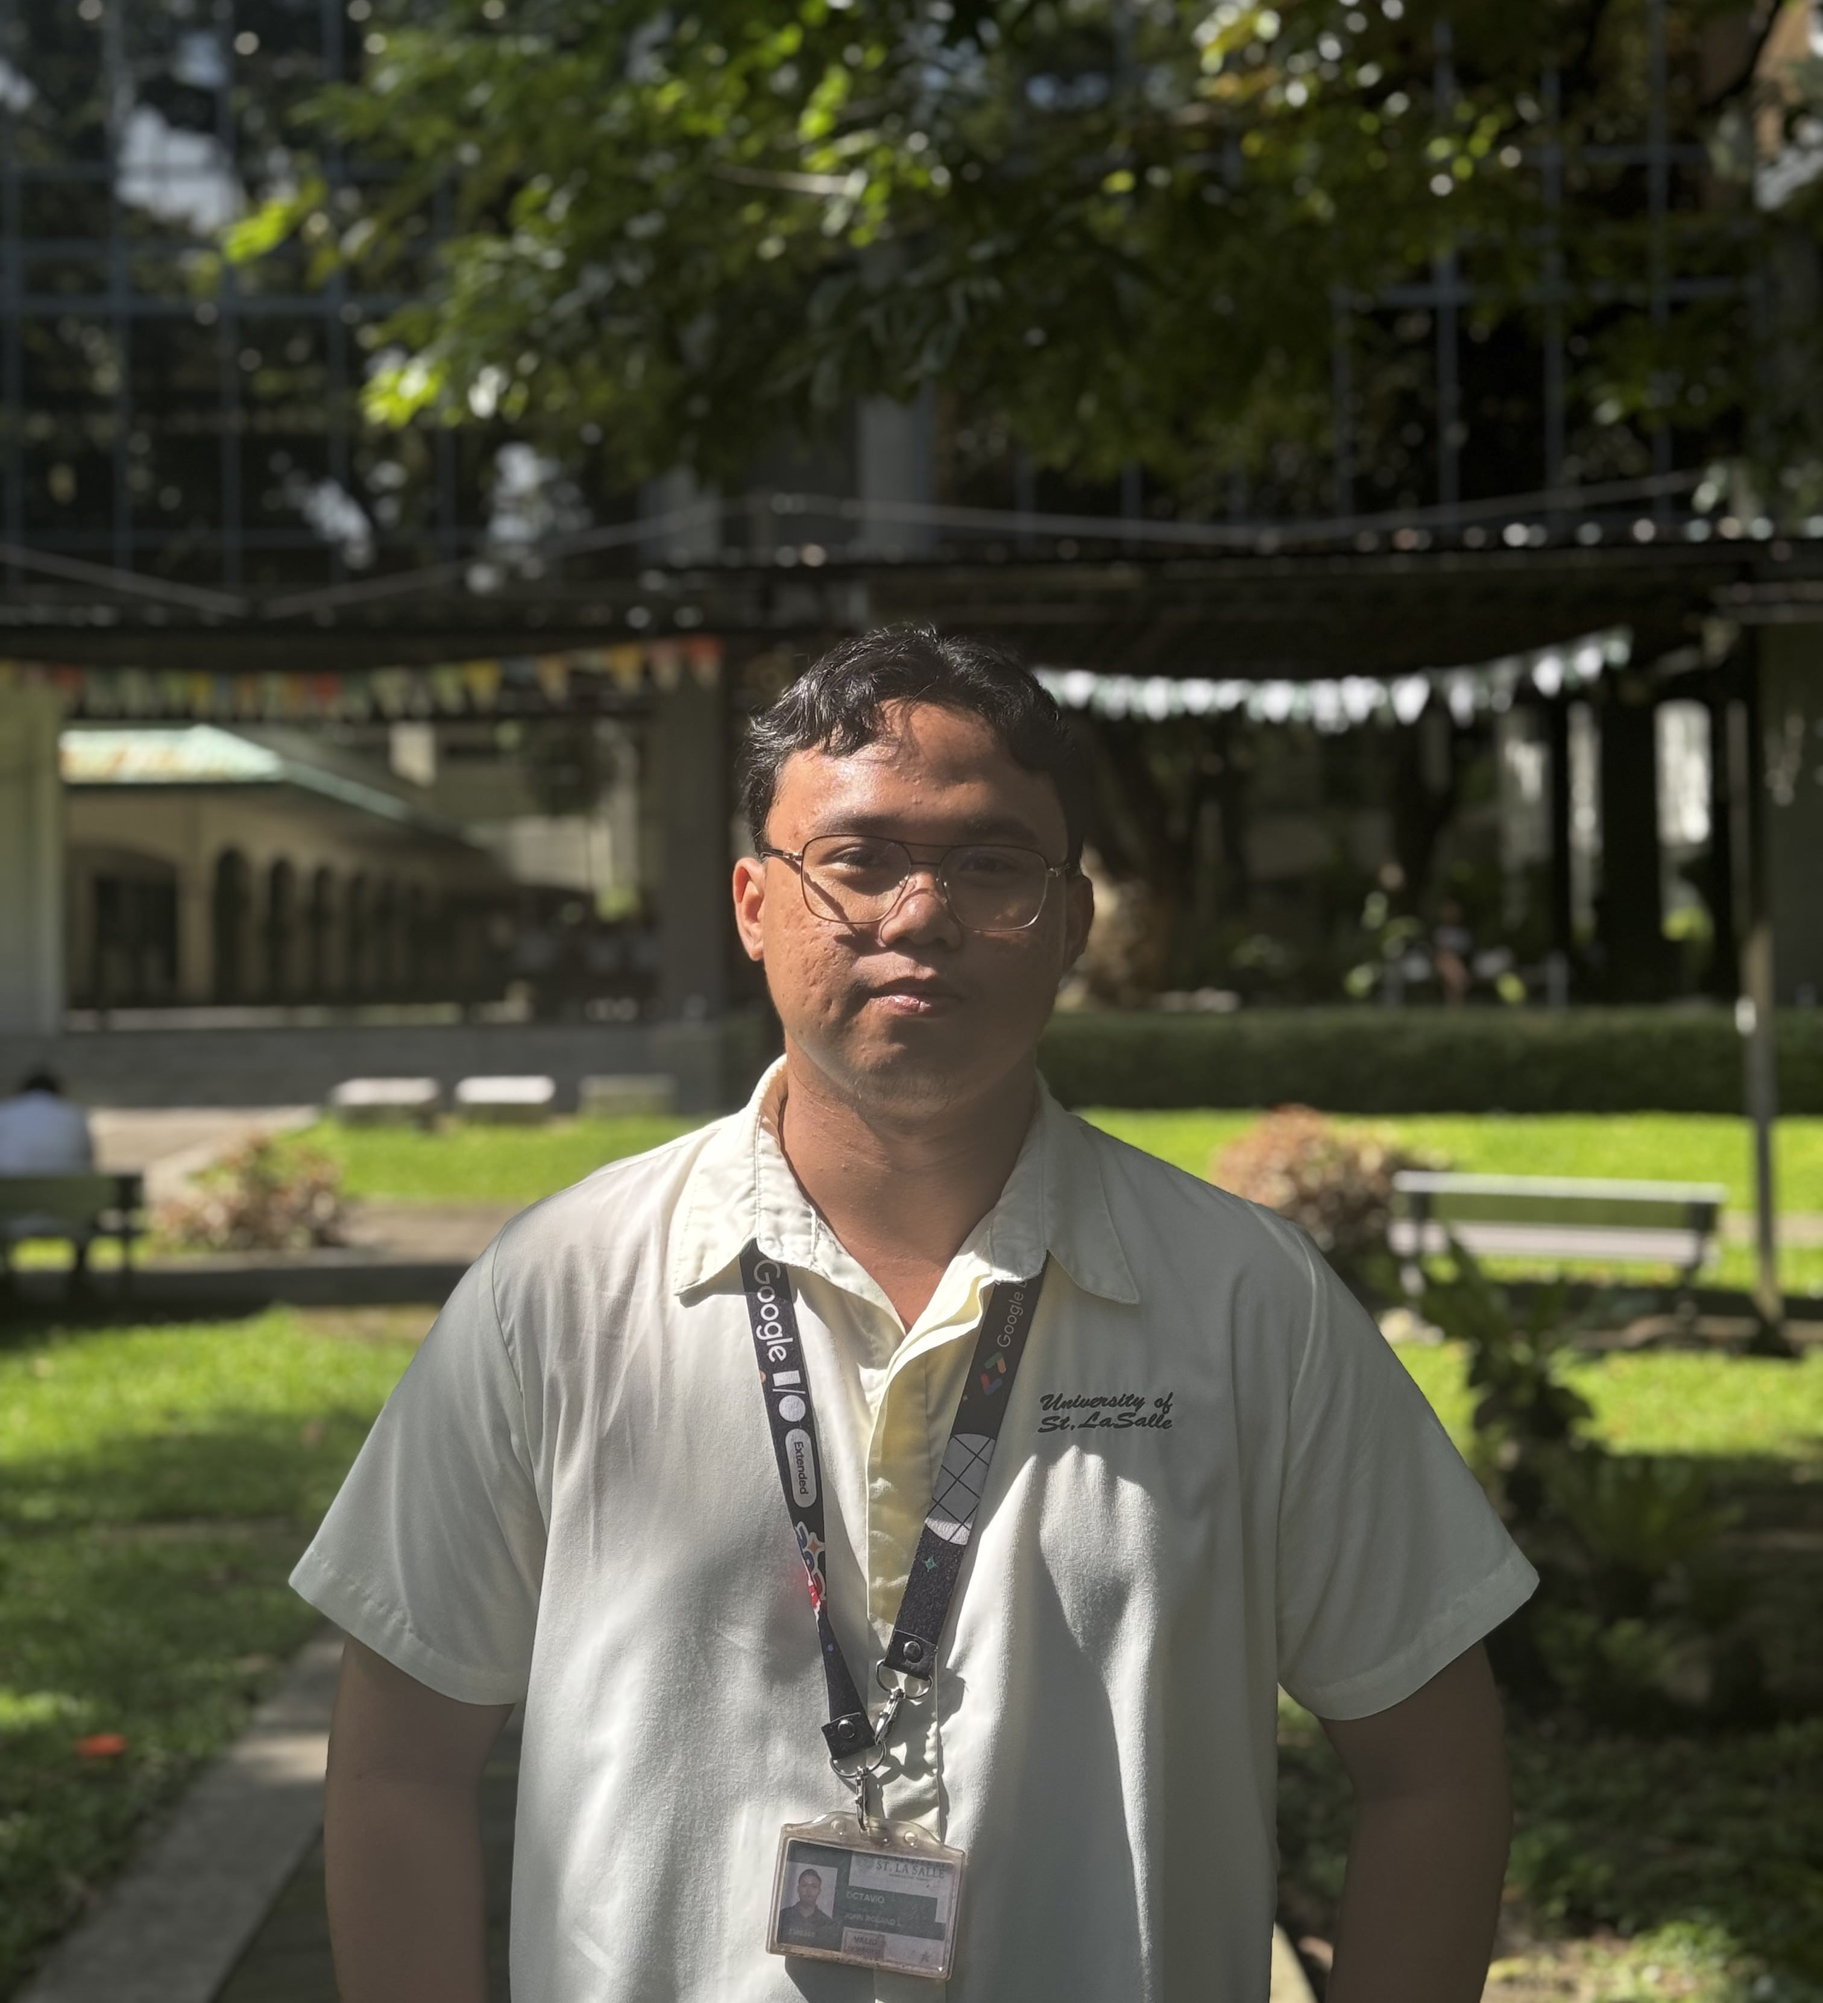
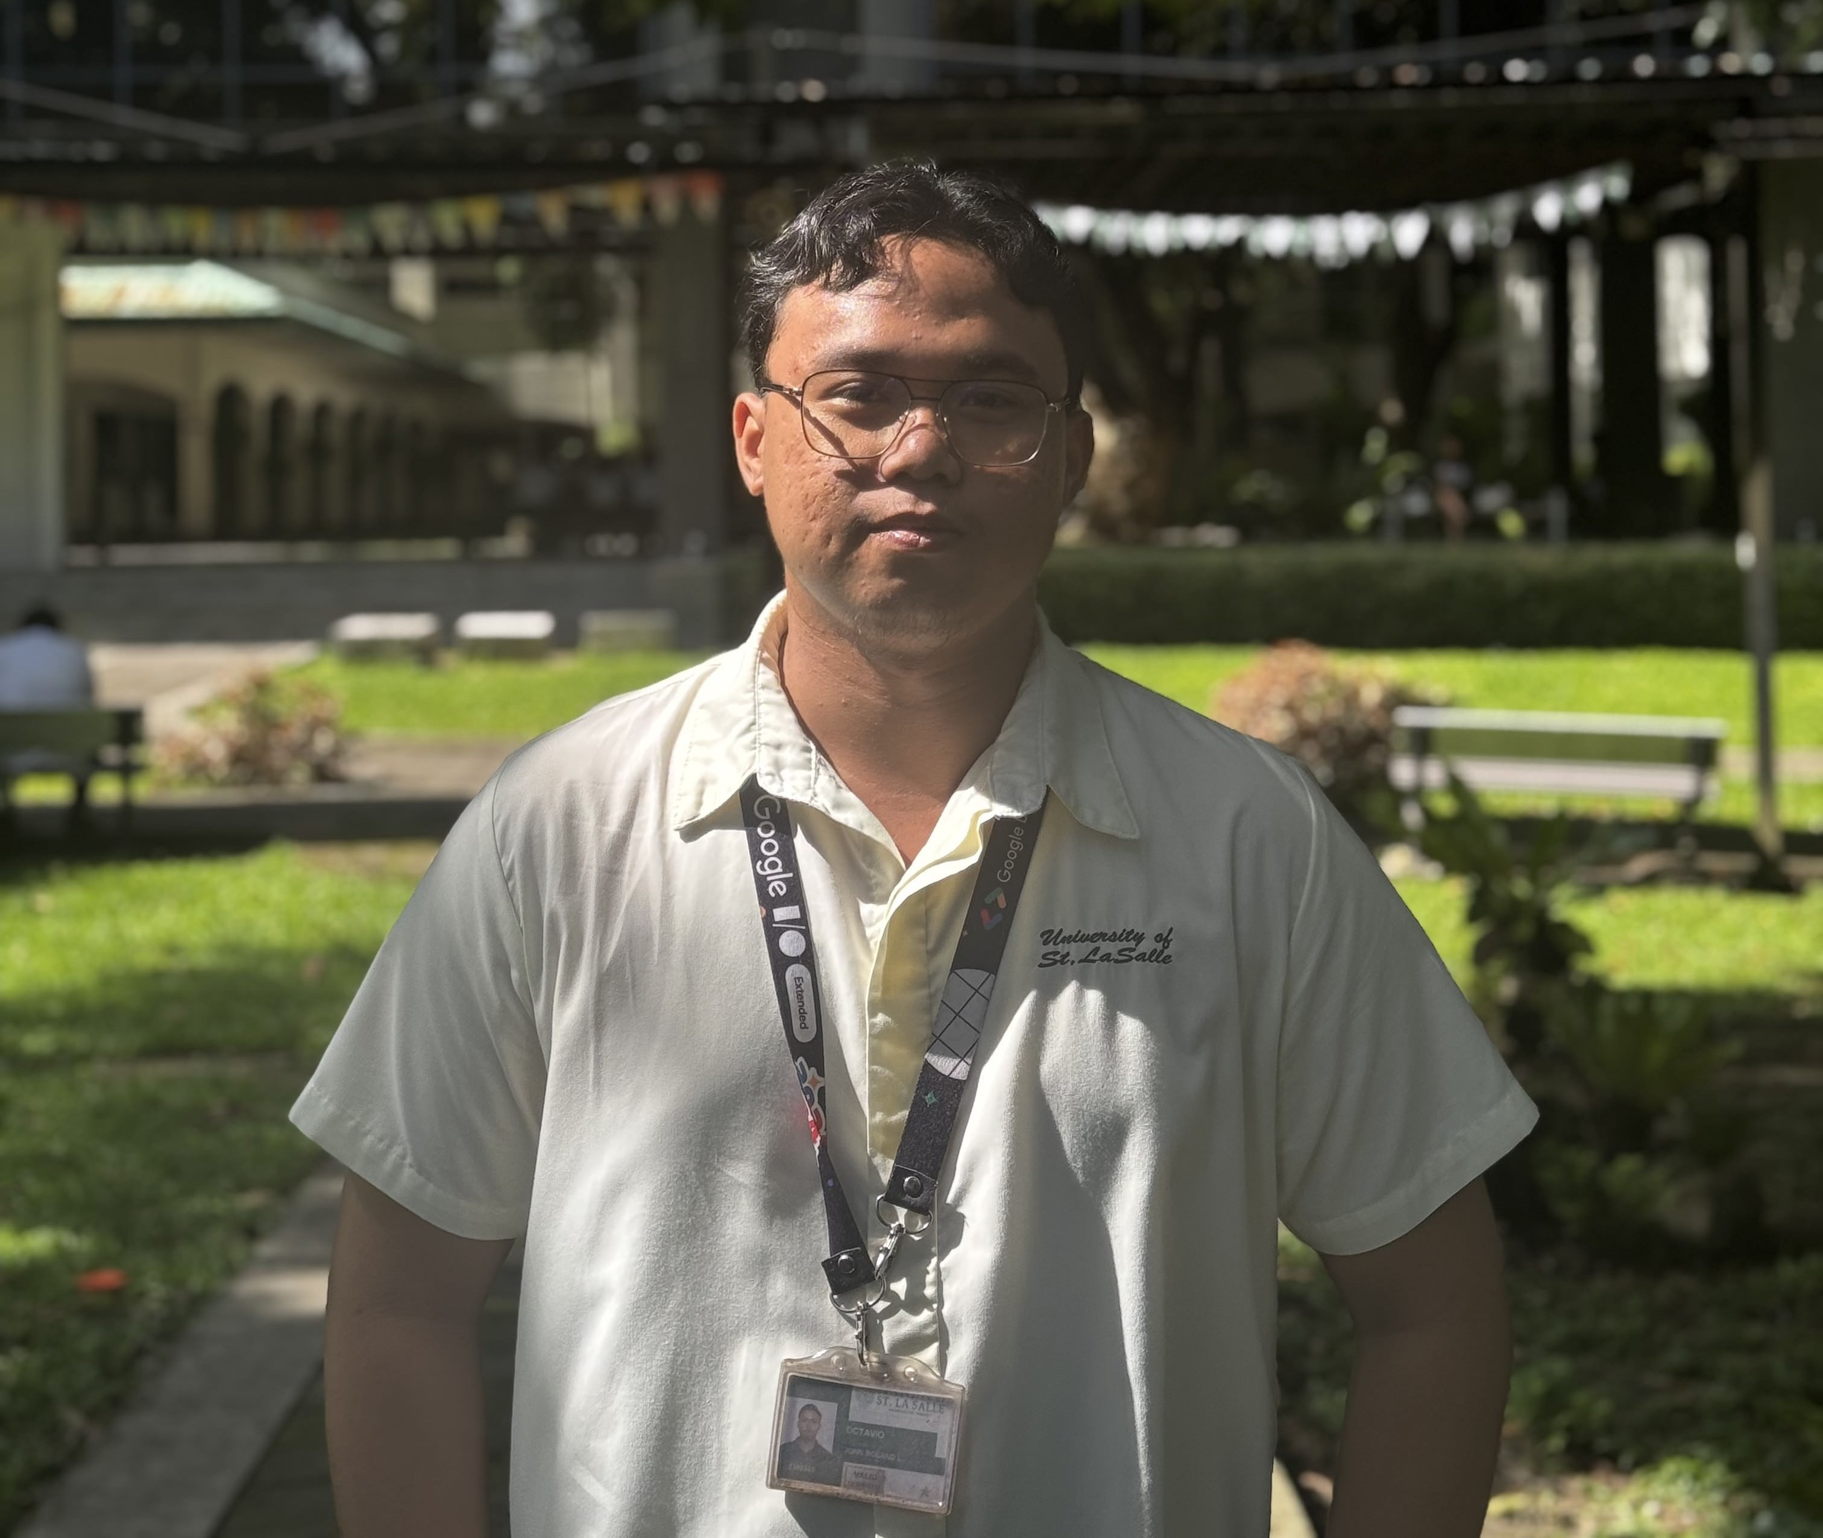
chore: update hero section and chat panel

diff --git a/components/chat/chat-panel.tsx b/components/chat/chat-panel.tsx
@@ -1,10 +1,12 @@
 "use client";
 
+import { useEffect, useRef } from 'react';
+import { UIMessage } from 'ai';
+import { useChat } from '@ai-sdk/react';
 import { motion, Variants } from 'motion/react';
 import Image from 'next/image';
 import { FiMinimize2 } from "react-icons/fi";
-import { ChatMessage } from './chat-message';
-import { ChatInput } from './chat-input';
+import { ChatMessage, ChatInput } from '@/components/chat/_components';
 
 const chatPanelVariants = {
   closed: { 
@@ -55,6 +57,49 @@ const ChatHeader = ({ onClose }: ChatPanelProps) => {
 }
 
 export const ChatPanel = ({ open, onClose }: ChatPanelProps) => {
+  const scrollContainerRef = useRef<HTMLDivElement>(null);
+  const { messages, sendMessage, status } = useChat<UIMessage>({
+    onError: err => {
+      console.error(`Chat error: ${ err.message }`);
+    },
+    messages: [
+      {
+        id: 'welcome',
+        role: 'assistant',
+        parts: [{
+          type: 'text',
+          text: '안녕하세요! Ask me anything about myself and my projects!'
+        }],
+      }
+    ]
+  });
+
+  const handleSubmit = async (query: string) => {
+    if (!query.trim()) return;
+    await sendMessage({ text: query });
+  }
+
+  const atBottom = () => {
+    if (!scrollContainerRef.current) return false;
+    
+    const { scrollHeight, scrollTop, clientHeight } = scrollContainerRef.current;
+
+    return scrollHeight - scrollTop <= clientHeight + 100;
+  }
+
+  useEffect(() => {
+    const container = scrollContainerRef.current;
+    if (!container) return;
+
+    const last = messages[messages.length - 1];
+    if (last || atBottom()) {
+      container.scrollTo({
+        top: container.scrollHeight,
+        behavior: 'smooth'
+      });
+    }
+  }, [messages])
+
   return (
     <motion.div
       className={`relative flex flex-col w-84 h-130 border border-accent rounded-lg overflow-hidden bg-surface font-sora ${ open ? 'pointer-events-auto' : 'pointer-events-none'}`}
@@ -63,10 +108,15 @@ export const ChatPanel = ({ open, onClose }: ChatPanelProps) => {
       variants={ chatPanelVariants }
     >
       <ChatHeader onClose={ onClose }/>
-      <div className="flex flex-col flex-1 gap-4 p-4 overflow-y-auto scrollbar-none">
-        <ChatMessage sender="John O." message="Ask me anything about myself and my projects!" />
+      <div 
+        ref={ scrollContainerRef }
+        className="flex flex-col flex-1 gap-4 p-4 overflow-y-auto scrollbar-none" 
+      >
+        { messages.map(message => (
+          <ChatMessage key={ message.id } sender={ message.role === 'assistant' ? "John O." : "me" } messages={message} />
+        ))}
       </div>
-      <ChatInput onSend={ () => {} } />
+      <ChatInput onSend={ handleSubmit } />
     </motion.div>
   )
 }

diff --git a/components/chat/chat-input.tsx b/components/chat/chat-input.tsx
@@ -4,7 +4,7 @@ import { useState, useEffect } from 'react';
 import { IoIosSend } from "react-icons/io";
 
 interface ChatInputProps {
-    onSend: () => void;
+    onSend: (message: string) => void;
 }
 
 const PLACEHOLDERS = [
@@ -18,7 +18,6 @@ const N_SECS = 3;
 
 export const ChatInput = ({ onSend }: ChatInputProps ) => {
     const [query, setQuery] = useState("");
-    const [length, setLength] = useState<number>(0);
     const [placeholder, setPlaceholder] = useState(PLACEHOLDERS[0]);
 
     useEffect(() => {
@@ -32,25 +31,22 @@ export const ChatInput = ({ onSend }: ChatInputProps ) => {
         return () => clearInterval(interval);
     }, [N_SECS]);
 
+    const handleSend = () => {
+        if (query.trim().length == 0) return;
+        onSend(query);
+        setQuery("");
+    }
+
     // Manage Tab autocomplete and manual send (Enter)
     const handleKeyDown = (e: React.KeyboardEvent<HTMLInputElement>) => {
         if (e.key === 'Tab' && query.length == 0) {
             e.preventDefault();
             setQuery(placeholder);
-            setLength(placeholder.length);
         }
         
         if (e.key === 'Enter' && query.length > 0) {
-            onSend();
-            setQuery("");
-            setLength(0);
+            handleSend();
         }
-    }
-
-    const handleChange = (e: React.ChangeEvent<HTMLInputElement>) => {
-        const q = e.target.value
-        setQuery(q);
-        setLength(q.length);
     }
 
     return (
@@ -62,14 +58,14 @@ export const ChatInput = ({ onSend }: ChatInputProps ) => {
                     id="query"  
                     value={ query || "" }
                     maxLength={ MAX_CHAR }
-                    onChange={ handleChange }
+                    onChange={ e => setQuery(e.target.value) }
                     onKeyDown={ handleKeyDown }
                     className='w-full placeholder-secondary text-default border-secondary/40 border-b p-1 focus:border-secondary focus:outline-none text-sm'
                     placeholder={ placeholder }
                 />
                 <button 
                     className='bg-accent p-2 text-xl rounded-lg hover:bg-accent/85 hover:cursor-pointer'
-                    onClick={ onSend }
+                    onClick={ handleSend }
                 >
                     <IoIosSend />
                 </button>
@@ -83,7 +79,7 @@ export const ChatInput = ({ onSend }: ChatInputProps ) => {
                         "Ask and you shall receive."
                     }
                 </p>
-                <p>{ length } / { MAX_CHAR }</p>
+                <p>{ query.length } / { MAX_CHAR }</p>
             </div>
         </div>
     )

diff --git a/components/hero/hero.tsx b/components/hero/hero.tsx
@@ -1,5 +1,6 @@
 "use client";
 
+import Image from 'next/image';
 import { GrLocationPin } from "react-icons/gr";
 import { CTA } from './cta';
 import { SocialLinks } from "./social-link";
@@ -13,18 +14,21 @@ export const Hero = () => {
             className="flex flex-col justify-start w-4/5 lg:w-3/5 border gap-2 md:gap-4 border-accent rounded-lg mx-auto p-4 md:py-6 md:px-8"
         >
             <div className="flex justify-between items-center">
-                <div className="flex gap-2 md:gap-4 items-center">
-                    <p className='font-sora font-medium text-[12px] md:text-2xl lg:text-3xl text-default'>John Roland Octavio</p>
-                    <div className="flex items-center gap-1 md:gap-2 text-[6px] md:text-sm text-secondary font-manrope">
-                        <div className="w-1 md:w-2 h-1 md:h-2 rounded-full bg-green"></div>
-                        <p>Available</p>
+                <div className="flex gap-3 items-center">
+                    <Image src='/img/profile-octavio.jpg' alt="Image of John Octavio" width={64} height={64} className='object-cover rounded-sm'/>
+                    <div className="flex flex-col">
+                        <p className='font-sora font-medium text-[12px] md:text-2xl lg:text-3xl text-default'>John Roland Octavio</p>
+                        <div className="flex items-center gap-1 md:gap-2 text-[6px] md:text-sm text-secondary font-manrope">
+                            <div className="w-1 md:w-2 h-1 md:h-2 rounded-full bg-green"></div>
+                            <p>Available</p>
+                        </div>
                     </div>
                 </div>
                 <SocialLinks />
             </div>
-            <p className="inline-flex gap-1 text-[8px] lg:text-lg items-center font-manrope text-secondary -mt-2 md:-mt-4"> <GrLocationPin /> Bacolod City, Philippines</p>
+            <p className="inline-flex gap-1 text-[8px] lg:text-lg items-center font-manrope text-secondary"> <GrLocationPin /> Bacolod City, Philippines</p>
             <p className="w-full text-[10px] lg:text-lg text-default">
-                I specialize in building clean, practical, and effective solutions for 3 years. 
+                I build clean, practical, and effective solutions. 
                 Currently serving as the <span className="font-semibold">Chief Technology Officer</span> and was a former <span className="font-semibold">Web Development Lead</span> of  
                 <span className="italic"> Google Developer Groups on Campus-USLS</span>.
             </p>

diff --git a/components/footer.tsx b/components/footer.tsx
@@ -6,18 +6,16 @@ export const Footer = () => {
     return (
         <motion.footer 
             variants={ childVariant }
-            className="w-4/5 md:w-3/5 text-secondary font-sora py-5 mx-auto mt-auto flex flex-col items-center justify-center text-[10px] md:text-base lg:text-xl font-normal"
+            className="w-4/5 md:w-3/5 text-secondary font-sora py-5 mx-auto mt-auto flex flex-col items-center justify-center text-[10px] md:text-base font-normal border-t border-default/50"
             initial="closed"
             animate="open"
             transition={{ delay: 0.5, duration: 0.3, ease: "easeInOut" }}
         >
-            <p>Built using <span className="font-medium text-default">Next.js</span>, <span className="font-medium text-default">TypeScript</span>, and <span className="font-medium text-default">Tailwind</span>.</p>
-            <div className="flex gap-3">
-                <div className="flex gap-1 items-center">
-                    <p>&copy;</p>
-                    <p>{ new Date().getFullYear() }</p>
-                </div>
-                <p>John Octavio. All rights reserved.</p>
+            <div className="flex gap-2">
+                <p> Built using <span className="font-medium text-default">Next.js</span>, <span className="font-medium text-default">TypeScript</span>, and <span className="font-medium text-default">Tailwind</span>.</p>
+                <p>
+                    <span>&copy; { new Date().getFullYear() }</span> John Octavio, all rights reserved.
+                </p>
             </div>
         </motion.footer>
     )

diff --git a/components/chat/chat-message.tsx b/components/chat/chat-message.tsx
@@ -1,12 +1,13 @@
+import { UIMessage } from '@ai-sdk/react';
 import clsx from 'clsx';
 import Image from 'next/image';
 
 interface ChatMessageProps {
     sender: "John O." | "me";
-    message: string;
+    messages: UIMessage;
 }
 
-export const ChatMessage = ({ sender, message }: ChatMessageProps) => {
+export const ChatMessage = ({ sender, messages }: ChatMessageProps) => {
     return (
         <div 
             className={clsx(
@@ -39,7 +40,14 @@ export const ChatMessage = ({ sender, message }: ChatMessageProps) => {
                     }
                 )}
             >
-                <p className='text-xs'>{ message }</p>
+                {messages.parts.map((part, index) => {
+                    switch(part.type) {
+                        case 'text':
+                            return <p key={index} className='text-xs'>{part.text}</p>
+                        default:
+                            return null;
+                    }
+                })}
             </div>
         </div>
     );

diff --git a/components/header.tsx b/components/header.tsx
@@ -78,10 +78,10 @@ export const Header = () => {
     const [isMenuOpen, setIsMenuOpen] = useState(false);
     return (
         <header 
-            className="flex flex-col md:flex-row w-full bg-background text-default font-sora p-6 md:px-8 lg:px-14"
+            className="flex flex-col md:flex-row w-full bg-background text-default font-sora"
         >
             <motion.div 
-                className="flex w-full lg:w-3/5 justify-between items-center mx-auto" 
+                className="flex w-full lg:w-3/5 justify-between items-center mx-auto border-b border-default/20 p-6 lg:py-4" 
                 variants={ containerVariants }
                 initial="closed"
                 animate="open"

diff --git a/components/hero/feature-section.tsx b/components/hero/feature-section.tsx
@@ -11,7 +11,7 @@ export const FeatureSection = () => {
         >
             <Features />
             <div className='relative hidden md:block md:w-2/5 border-2 border-accent rounded-lg'>
-            <Image src='/img/profile-octavio.jpg' alt="Image of John Octavio" fill className='object-cover rounded-lg'/>
+                <Image src='/img/projects/eSkolar-login.png' alt="eSkolar" fill className='object-cover rounded-lg'/>
             </div>
         </StaggerWrapper>
     )

diff --git a/components/chat/_components.ts b/components/chat/_components.ts
@@ -1,0 +1,5 @@
+import { ChatBubble } from "./chat-bubble";
+import { ChatInput } from "./chat-input";
+import { ChatMessage } from "./chat-message";
+
+export { ChatBubble, ChatInput, ChatMessage };
